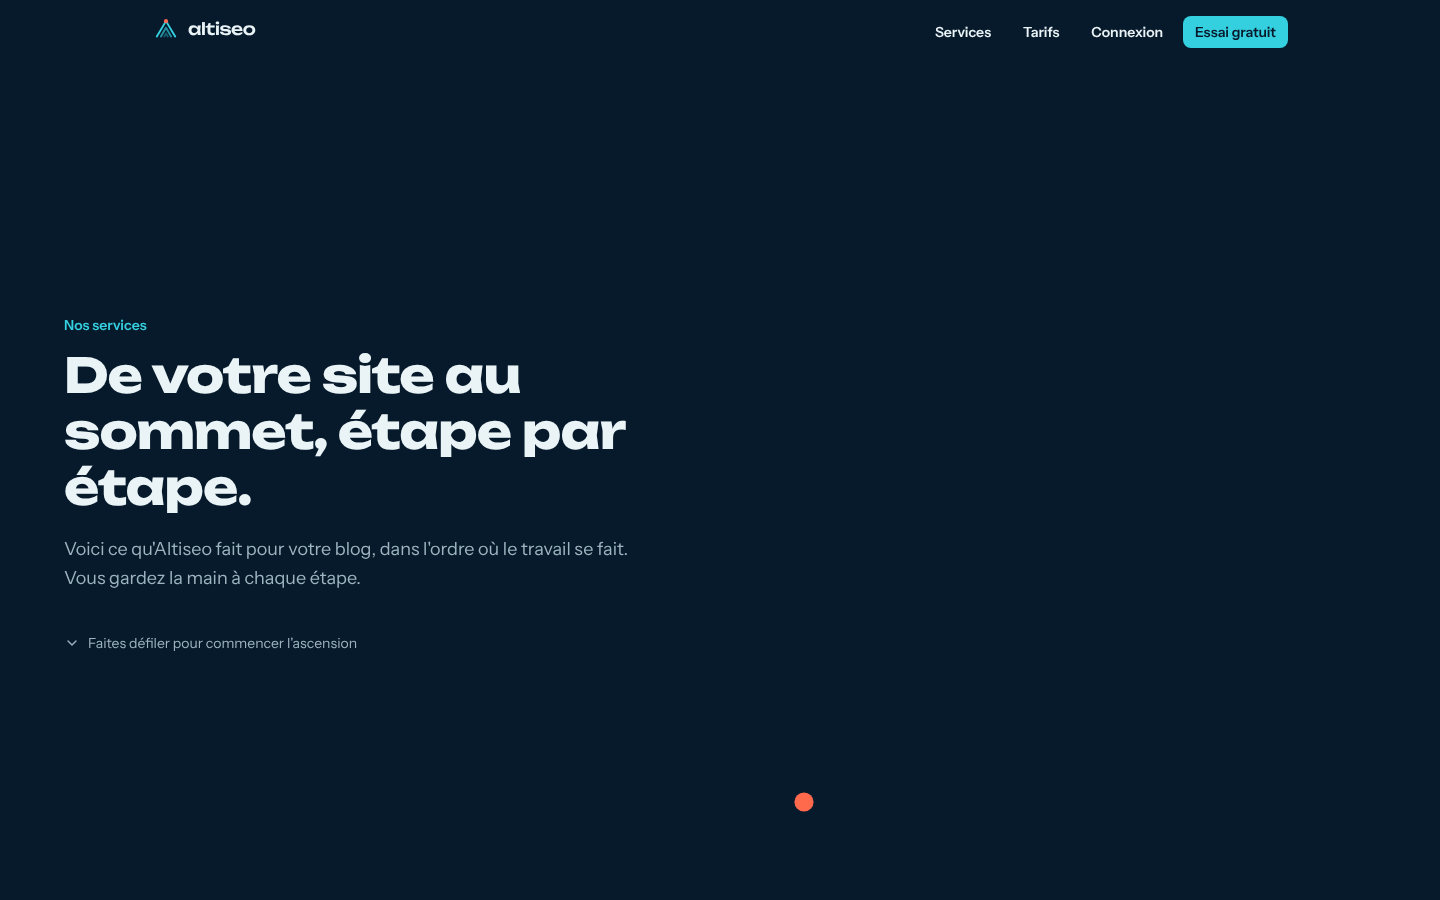
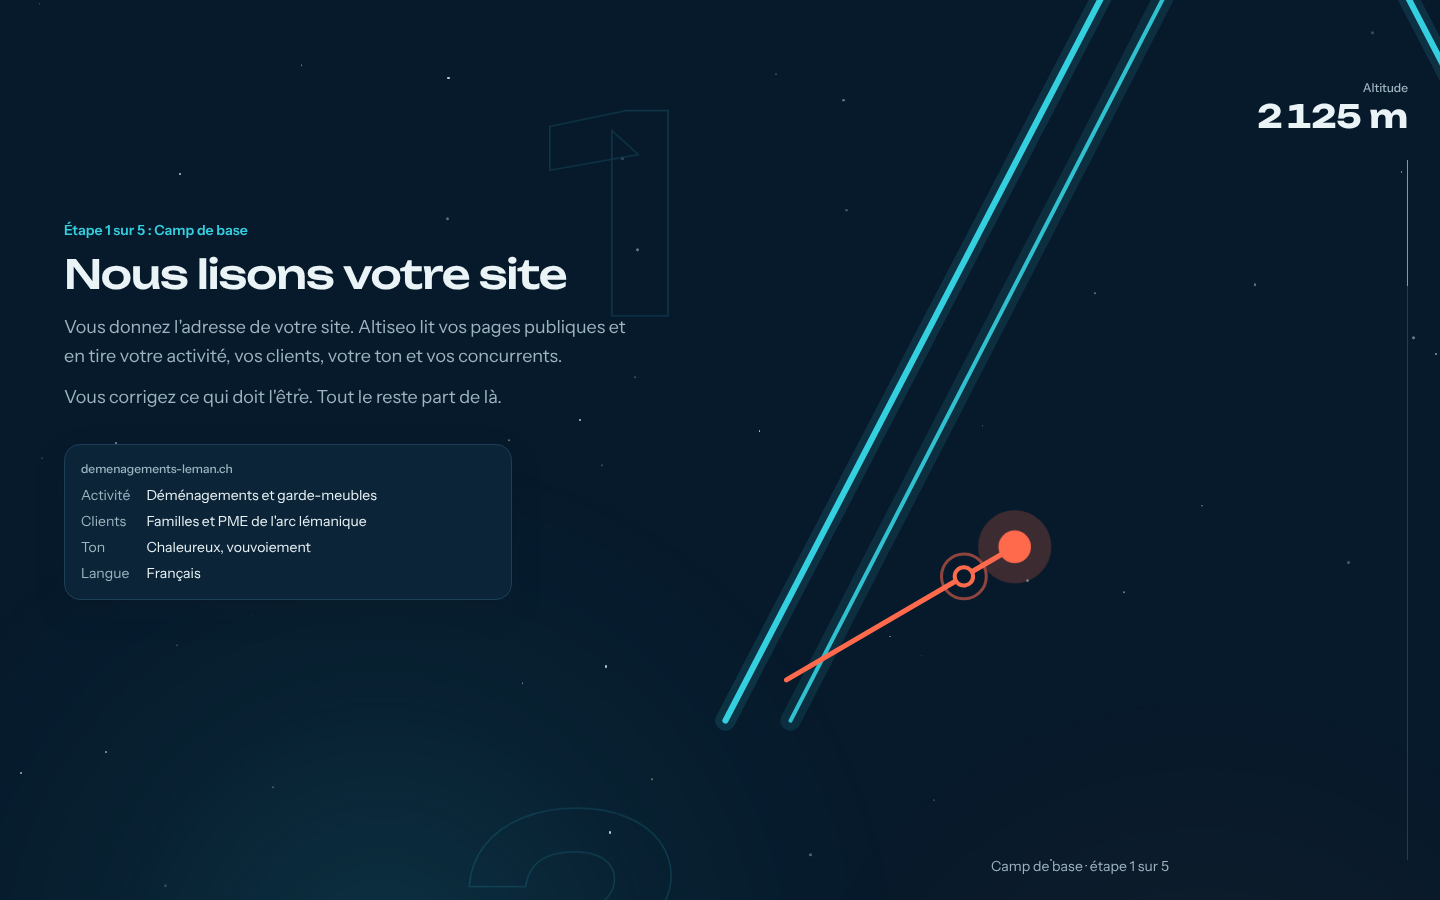
services film: camera, depth, word reveals, checkpoints, altitude
Camera starts close on the climber and pulls back to the whole mountain;
star layers and aurora glows move at different speeds; titles arrive
word by word and product shots tilt into place; a ghost step number
drifts behind each scene; a checkpoint lights at each step, an altitude
counter climbs to 4478 m and rays open at the summit. Glows use plain
gradients and stroke halos instead of blur filters (16.6 ms per frame
in headless Chromium, down from 75 ms). Reduced motion still gets the
finished drawing.

Claude-Session: https://claude.ai/code/session_011RBLGKB5dKpvgzhoEGGa65

diff --git a/src/app/(public)/services/film.tsx b/src/app/(public)/services/film.tsx
@@ -18,17 +18,48 @@ const LINES = 8;
 const ROUTE = "M70 540 L190 470 L150 400 L280 340 L235 270 L330 215 L290 150 L300 62";
 
 const STEPS = ["Camp de base", "L'itinéraire", "La marche", "Le passage", "Le sommet"];
+/** Position de chaque étape le long de l'itinéraire (0 = départ, 1 = sommet). */
+const MARKS = [0.14, 0.31, 0.48, 0.66, 0.84];
+/** Altitude affichée : du fond de vallée au sommet (4 478 m, clin d'œil au Cervin). */
+const ALT_BASE = 1608, ALT_TOP = 4478;
+
+/** Étoiles à positions fixes (pas de hasard : même rendu au serveur et dans le navigateur). */
+function starField(count: number, seed: number) {
+  let x = seed;
+  const next = () => { x = (x * 1664525 + 1013904223) % 4294967296; return x / 4294967296; };
+  return Array.from({ length: count }, () => ({ left: next() * 100, top: next() * 100, size: 1 + next() * 2, o: 0.25 + next() * 0.6 }));
+}
+const STARS = [starField(46, 7), starField(28, 23)];
 
 function Shot({ children, label }: { children: React.ReactNode; label: string }) {
-  return <div role="img" aria-label={label} className="mt-8 max-w-md rounded-xl border border-border bg-surface/90 p-4 shadow-pop backdrop-blur">{children}</div>;
+  return (
+    <div className="shot-stage mt-8 max-w-md">
+      <div role="img" aria-label={label} className="shot rounded-xl border border-border bg-surface p-4 shadow-pop">{children}</div>
+    </div>
+  );
+}
+
+/** Titre révélé mot par mot quand la scène arrive (lu d'un bloc par les lecteurs d'écran). */
+function Words({ text }: { text: string }) {
+  return (
+    <>
+      <span className="sr-only">{text}</span>
+      <span aria-hidden="true">
+        {text.split(" ").map((w, i) => (
+          <span key={i} className="word" style={{ transitionDelay: `${80 + i * 70}ms` }}>{w}{" "}</span>
+        ))}
+      </span>
+    </>
+  );
 }
 
 function Scene({ n, title, children, shot }: { n: number; title: string; children: React.ReactNode; shot: React.ReactNode }) {
   return (
-    <section data-scene={n} aria-labelledby={`scene-${n}`} className="scene flex min-h-dvh items-center px-4 py-24 md:px-8 lg:w-1/2">
-      <div className="mx-auto w-full max-w-xl lg:ml-auto lg:mr-12">
+    <section data-scene={n} aria-labelledby={`scene-${n}`} className="scene relative flex min-h-dvh items-center px-4 py-24 md:px-8 lg:w-1/2">
+      <span data-parallax="0.22" aria-hidden="true" className="ghost pointer-events-none absolute right-2 top-[12%] select-none font-display text-[38vw] font-bold leading-none lg:right-8 lg:text-[19vw]">{n}</span>
+      <div className="relative mx-auto w-full max-w-xl lg:ml-auto lg:mr-12">
         <p className="text-sm font-semibold text-accent">Étape {n} sur {STEPS.length} : {STEPS[n - 1]}</p>
-        <h2 id={`scene-${n}`} className="mt-3 font-display text-2xl font-medium leading-tight tracking-tight md:text-[40px] md:leading-[1.12]">{title}</h2>
+        <h2 id={`scene-${n}`} className="mt-3 font-display text-2xl font-medium leading-tight tracking-tight md:text-[40px] md:leading-[1.12]"><Words text={title} /></h2>
         <div className="mt-4 space-y-3 text-lg font-normal leading-relaxed text-text-muted">{children}</div>
         {shot}
       </div>
@@ -47,9 +78,23 @@ export function ServicesFilm() {
     const lines = [...s.querySelectorAll<SVGPathElement>("[data-line]")];
     const route = s.querySelector<SVGPathElement>("[data-route]")!;
     const dot = s.querySelector<SVGCircleElement>("[data-dot]")!;
+    const dotHalo = s.querySelector<SVGCircleElement>("[data-dot-halo]")!;
     const summit = s.querySelector<SVGGElement>("[data-summit]")!;
     const total = route.getTotalLength();
     const reduce = window.matchMedia("(prefers-reduced-motion: reduce)").matches;
+    const camera = s.querySelector<SVGGElement>("[data-camera]")!;
+    const marks = [...s.querySelectorAll<SVGGElement>("[data-mark]")];
+    const rays = s.querySelector<SVGGElement>("[data-rays]")!;
+    const stars = [...el.querySelectorAll<HTMLElement>("[data-stars]")];
+    const glows = [...el.querySelectorAll<HTMLElement>("[data-glow]")];
+    const ghosts = [...el.querySelectorAll<HTMLElement>("[data-parallax]")];
+    const alt = el.querySelector<HTMLElement>("[data-alt]")!;
+    const rail = el.querySelector<HTMLElement>("[data-rail]")!;
+    // Un jalon par étape, posé sur l'itinéraire.
+    marks.forEach((m, i) => {
+      const pt = route.getPointAtLength(total * MARKS[i]);
+      m.setAttribute("transform", `translate(${pt.x} ${pt.y})`);
+    });
     let raf = 0;
 
     const paint = () => {
@@ -58,15 +103,36 @@ export function ServicesFilm() {
       const span = rect.height - window.innerHeight;
       const p = reduce ? 1 : Math.min(1, Math.max(0, span > 0 ? -rect.top / span : 0));
       // Les courbes se tracent de la base vers le sommet.
-      lines.forEach((l, i) => {
+      lines.forEach((l) => {
+        const i = Number(l.dataset.i);
         const local = Math.min(1, Math.max(0, p * (LINES - 0.3) - i * 0.9)); // la dernière courbe se ferme vers 95 %
         l.style.strokeDashoffset = String(1 - local);
       });
       route.style.strokeDashoffset = String(1 - p);
       const pt = route.getPointAtLength(total * p);
-      dot.setAttribute("cx", String(pt.x));
-      dot.setAttribute("cy", String(pt.y));
+      for (const d of [dot, dotHalo]) { d.setAttribute("cx", String(pt.x)); d.setAttribute("cy", String(pt.y)); }
       summit.style.opacity = String(Math.min(1, Math.max(0, (p - 0.9) * 10)));
+      rays.style.opacity = String(Math.min(1, Math.max(0, (p - 0.94) * 16)));
+      rays.style.transform = `rotate(${(1 - p) * 90}deg) scale(${0.4 + Math.min(1, Math.max(0, (p - 0.94) * 16)) * 0.6})`;
+      marks.forEach((m, i) => m.classList.toggle("is-on", p >= MARKS[i]));
+      // Caméra : gros plan sur le grimpeur au départ, puis recul jusqu'à la montagne entière.
+      const zoom = reduce ? 1 : 1 + 0.9 * Math.pow(1 - p, 1.6);
+      const k = (zoom - 1) / 0.9;
+      const fx = 300 + (pt.x - 300) * k, fy = 300 + (pt.y - 300) * k;
+      camera.setAttribute("transform", `translate(300 300) scale(${zoom.toFixed(4)}) translate(${(-fx).toFixed(2)} ${(-fy).toFixed(2)})`);
+      // Profondeur : les étoiles et les lueurs défilent à des vitesses différentes.
+      stars.forEach((st, i) => { st.style.transform = `translate3d(0, ${(-p * (60 + i * 140)).toFixed(1)}px, 0)`; });
+      glows.forEach((g, i) => { g.style.transform = `translate3d(${((i ? -1 : 1) * p * 120).toFixed(1)}px, ${(-p * (180 + i * 160)).toFixed(1)}px, 0) scale(${(1 + p * 0.4).toFixed(3)})`; });
+      alt.textContent = `${Math.round(ALT_BASE + p * (ALT_TOP - ALT_BASE)).toLocaleString("fr-CH")} m`;
+      rail.style.transform = `scaleY(${p.toFixed(4)})`;
+      if (!reduce) {
+        const vh = window.innerHeight;
+        ghosts.forEach((g) => {
+          const r = g.parentElement!.getBoundingClientRect();
+          if (r.bottom < -200 || r.top > vh + 200) return;
+          g.style.transform = `translate3d(0, ${(((r.top + r.height / 2) - vh / 2) * -Number(g.dataset.parallax)).toFixed(1)}px, 0)`;
+        });
+      }
     };
     const onScroll = () => { if (!raf) raf = requestAnimationFrame(paint); };
     paint();
@@ -89,22 +155,58 @@ export function ServicesFilm() {
   return (
     <div ref={root} className="film relative">
       {/* Plan fixe : la montagne. À droite sur grand écran, en fond estompé sur téléphone. */}
-      <div className="pointer-events-none sticky top-0 flex h-dvh items-center justify-center overflow-hidden lg:ml-[50%]" aria-hidden="true">
-        <svg ref={svg} viewBox="0 0 600 600" className="h-[82%] w-auto max-w-none opacity-30 lg:opacity-100">
-          <g fill="none" strokeLinecap="round" strokeLinejoin="round" className="stroke-brand-cyan">
-            {Array.from({ length: LINES }, (_, i) => (
-              <path key={i} data-line pathLength={1} strokeDasharray="1" strokeDashoffset="1" strokeWidth={i === 0 ? 3 : 2}
-                opacity={1 - i * 0.1} d={`M${40 + i * 32} 560 L300 ${60 + i * 58} L${560 - i * 32} 560`} />
-            ))}
-          </g>
-          <path data-route d={ROUTE} pathLength={1} strokeDasharray="1" strokeDashoffset="1" fill="none" strokeWidth="2.5" strokeLinecap="round" strokeLinejoin="round" className="stroke-highlight" />
-          <g data-summit style={{ opacity: 0 }}>
-            <circle cx="300" cy="60" r="26" className="fill-highlight" opacity=".18" />
-            <circle cx="300" cy="60" r="14" className="fill-highlight" opacity=".3" />
-          </g>
-          <circle data-dot cx="70" cy="540" r="8" className="fill-highlight" />
-        </svg>
-        <p className="absolute bottom-6 left-1/2 hidden -translate-x-1/2 text-sm text-text-muted lg:block">
+      <div className="pointer-events-none sticky top-0 h-dvh overflow-hidden" aria-hidden="true">
+        {/* Lueurs d'aurore et ciel étoilé, sur toute la largeur */}
+        <div data-glow className="absolute -left-[10%] top-[55%] size-[70vmax] rounded-full opacity-30 will-change-transform" style={{ background: "radial-gradient(closest-side, rgb(var(--c-brand-cyan) / .45), rgb(var(--c-brand-cyan) / .12) 55%, transparent)" }} />
+        <div data-glow className="absolute -right-[15%] top-[85%] size-[60vmax] rounded-full opacity-25 will-change-transform" style={{ background: "radial-gradient(closest-side, rgb(var(--c-highlight) / .4), rgb(var(--c-highlight) / .1) 55%, transparent)" }} />
+        {STARS.map((layer, i) => (
+          <div key={i} data-stars className="absolute inset-x-0 top-0 h-[160%]">
+            {layer.map((st, j) => <i key={j} className="absolute rounded-full bg-text" style={{ left: `${st.left}%`, top: `${st.top}%`, width: st.size, height: st.size, opacity: st.o * (i ? 1 : 0.6) }} />)}
+          </div>
+        ))}
+        <div className="absolute inset-0 flex items-center justify-center lg:left-1/2">
+          <svg ref={svg} viewBox="0 0 600 600" className="h-[82%] w-auto max-w-none overflow-visible opacity-35 lg:opacity-100">
+            <g data-camera>
+              <g fill="none" strokeLinecap="round" strokeLinejoin="round" className="mountain stroke-brand-cyan">
+                {/* Halo : un second trait large et pâle (bien plus léger à dessiner qu'un filtre de lueur). */}
+                {Array.from({ length: LINES }, (_, i) => (
+                  <path key={`g${i}`} data-line data-i={i} pathLength={1} strokeDasharray="1" strokeDashoffset="1" strokeWidth={10}
+                    opacity={0.13 - i * 0.012} d={`M${40 + i * 32} 560 L300 ${60 + i * 58} L${560 - i * 32} 560`} />
+                ))}
+                {Array.from({ length: LINES }, (_, i) => (
+                  <path key={i} data-line data-i={i} pathLength={1} strokeDasharray="1" strokeDashoffset="1" strokeWidth={i === 0 ? 3 : 2}
+                    opacity={1 - i * 0.1} d={`M${40 + i * 32} 560 L300 ${60 + i * 58} L${560 - i * 32} 560`} />
+                ))}
+              </g>
+              <path data-route d={ROUTE} pathLength={1} strokeDasharray="1" strokeDashoffset="1" fill="none" strokeWidth="2.5" strokeLinecap="round" strokeLinejoin="round" className="stroke-highlight" />
+              {MARKS.map((_, i) => (
+                <g key={i} data-mark className="mark">
+                  <circle r="11" fill="none" strokeWidth="1.5" className="ring stroke-highlight" />
+                  <circle r="4.5" className="fill-bg stroke-highlight" strokeWidth="2" />
+                </g>
+              ))}
+              <g data-rays className="origin-center stroke-highlight" style={{ opacity: 0, transformBox: "fill-box", transformOrigin: "center" }} strokeWidth="2" strokeLinecap="round">
+                {Array.from({ length: 12 }, (_, i) => {
+                  const a = (i * Math.PI) / 6;
+                  return <line key={i} x1={300 + Math.cos(a) * 34} y1={60 + Math.sin(a) * 34} x2={300 + Math.cos(a) * (i % 2 ? 52 : 66)} y2={60 + Math.sin(a) * (i % 2 ? 52 : 66)} />;
+                })}
+              </g>
+              <g data-summit style={{ opacity: 0 }}>
+                <circle cx="300" cy="60" r="26" className="summit-halo fill-highlight" opacity=".18" />
+                <circle cx="300" cy="60" r="14" className="fill-highlight" opacity=".3" />
+              </g>
+              <circle data-dot-halo cx="70" cy="540" r="18" className="fill-highlight" opacity=".22" />
+              <circle data-dot cx="70" cy="540" r="8" className="fill-highlight" />
+            </g>
+          </svg>
+        </div>
+        {/* Altitude et progression */}
+        <div className="absolute right-4 top-20 text-right md:right-8">
+          <p className="text-xs text-text-muted">Altitude</p>
+          <p data-alt className="font-display text-xl font-medium tabular-nums md:text-2xl">1 608 m</p>
+        </div>
+        <div className="absolute bottom-10 right-4 top-40 w-px bg-border md:right-8"><div data-rail className="h-full w-px origin-top bg-highlight" style={{ transform: "scaleY(0)" }} /></div>
+        <p className="absolute bottom-6 left-1/2 hidden text-sm text-text-muted lg:left-3/4 lg:block lg:-translate-x-1/2">
           {step === 0 ? "Départ" : `${STEPS[step - 1]} · étape ${step} sur ${STEPS.length}`}
         </p>
       </div>

diff --git a/src/app/globals.css b/src/app/globals.css
@@ -56,9 +56,24 @@
   .prose-article > :first-child { @apply mt-0; }
 }
 
-/* Page des services (« film ») : chaque scène s'éclaire en arrivant à l'écran. */
+/* Page des services (« film »). Tout suit le défilement ; seules les entrées de scène et le halo du
+   sommet sont animés, et rien ne bouge avec « réduire les animations ». */
 @layer components {
-  .film .scene > div { opacity: 0.25; transform: translateY(16px); transition: opacity 500ms var(--motion-ease), transform 500ms var(--motion-ease); }
+  .film .scene > div { opacity: 0.2; transform: translateY(24px); transition: opacity 600ms var(--motion-ease), transform 600ms var(--motion-ease); }
   .film .scene.is-in > div { opacity: 1; transform: none; }
-  @media (prefers-reduced-motion: reduce) { .film .scene > div { opacity: 1; transform: none; } }
+  .film .word { display: inline-block; white-space: pre; opacity: 0; transform: translateY(0.6em) rotate(2deg); filter: blur(6px); transition: opacity 500ms var(--motion-ease), transform 500ms var(--motion-ease), filter 500ms var(--motion-ease); }
+  .film .scene.is-in .word { opacity: 1; transform: none; filter: none; }
+  .film .shot-stage { perspective: 900px; }
+  .film .shot { transform: rotateX(18deg) translateY(36px) scale(0.94); transform-origin: 50% 100%; opacity: 0; transition: transform 700ms var(--motion-ease) 250ms, opacity 500ms var(--motion-ease) 250ms; }
+  .film .scene.is-in .shot { transform: none; opacity: 1; }
+  .film .ghost { color: transparent; -webkit-text-stroke: 1.5px rgb(var(--c-brand-cyan) / 0.16); will-change: transform; }
+  .film .mark { opacity: 0; transition: opacity 300ms var(--motion-ease); }
+  .film .mark.is-on { opacity: 1; }
+  .film .mark .ring { transform: scale(0.3); opacity: 0; transition: transform 700ms var(--motion-ease), opacity 700ms var(--motion-ease); transform-box: fill-box; transform-origin: center; }
+  .film .mark.is-on .ring { transform: scale(1); opacity: 0.55; }
+  .film .summit-halo { animation: summit 2.4s ease-in-out infinite; transform-box: fill-box; transform-origin: center; }
+  @keyframes summit { 0%, 100% { transform: scale(1); opacity: 0.18; } 50% { transform: scale(1.7); opacity: 0.05; } }
+  @media (prefers-reduced-motion: reduce) {
+    .film .scene > div, .film .word, .film .shot { opacity: 1; transform: none; filter: none; }
+  }
 }
